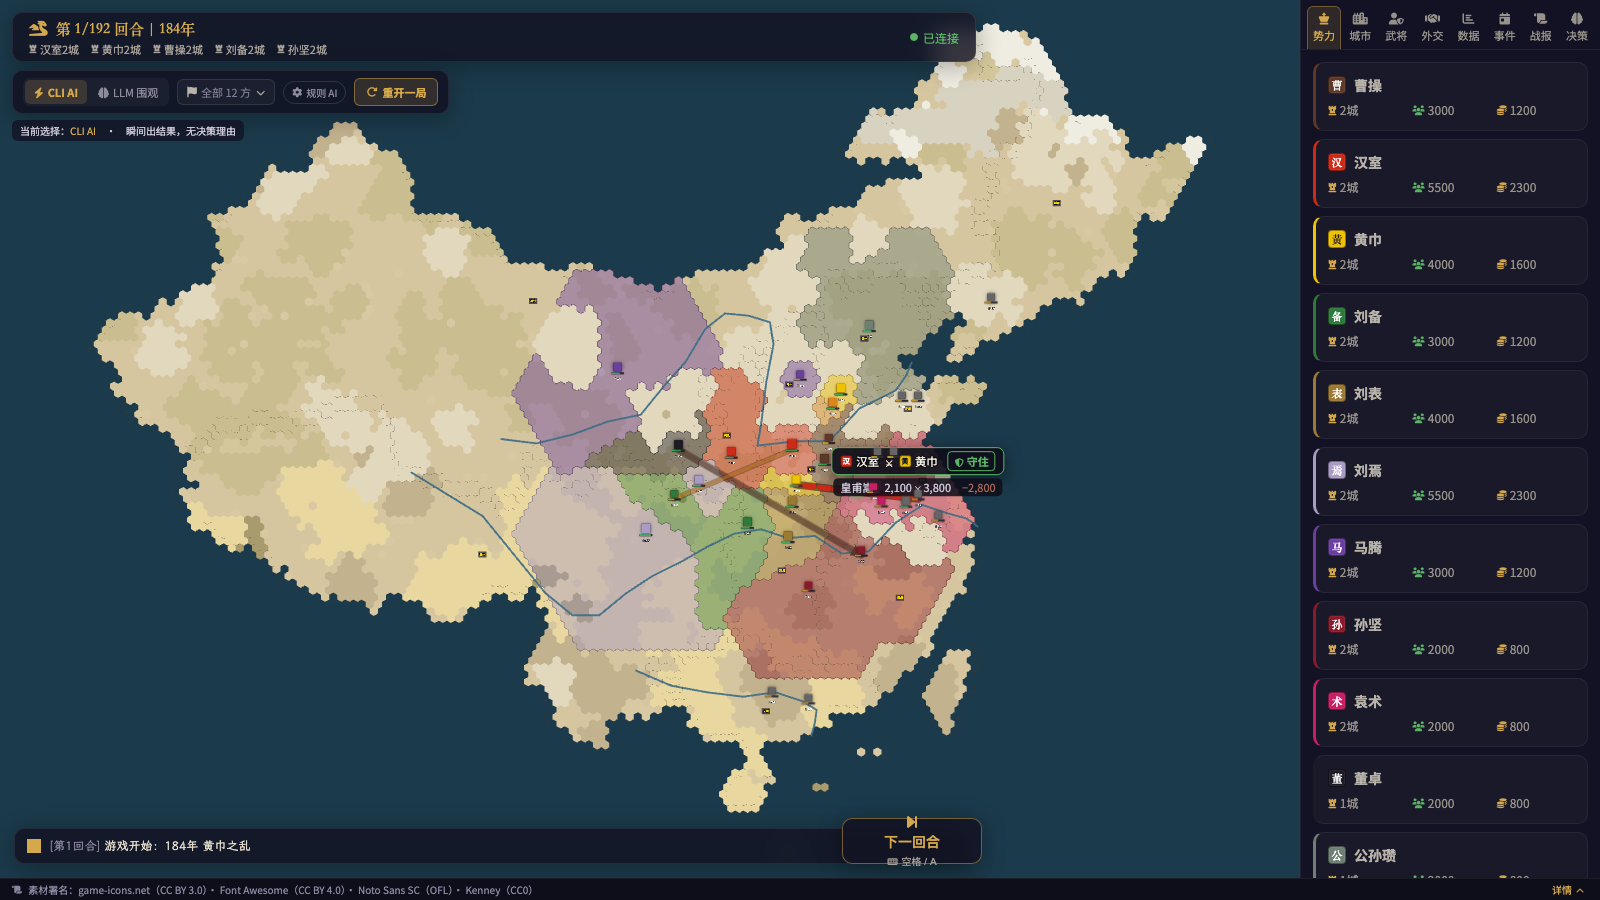
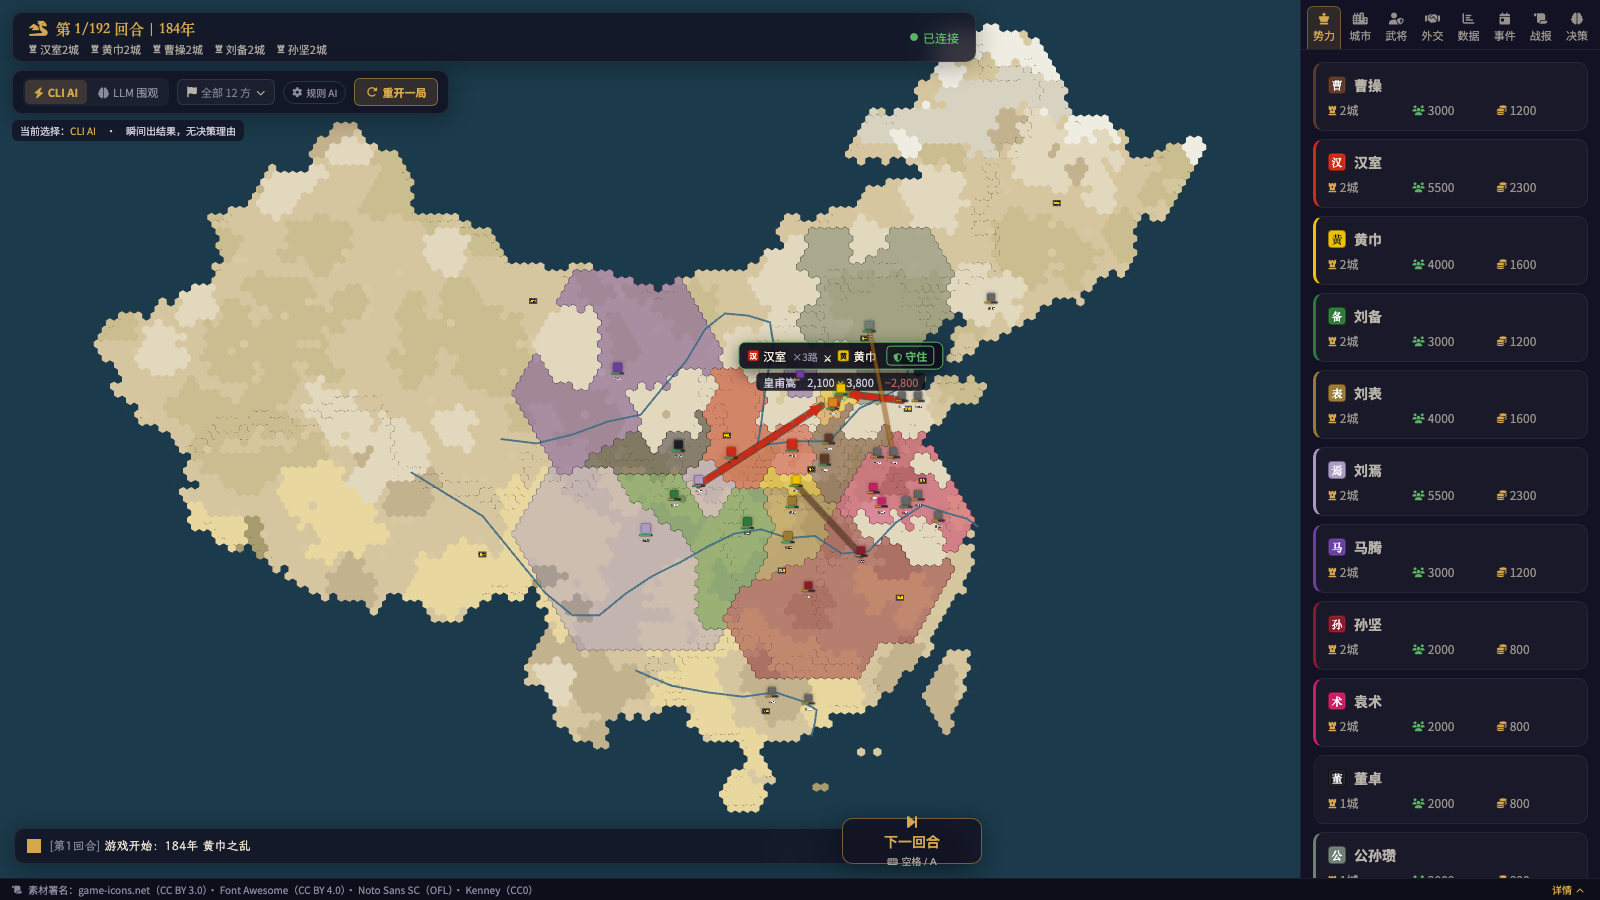
fix(web/ui): C2 出发城改正为复数 attacker_from_cities，每个出发城一条箭头
依据设计文档 §4.3.1 更正：一场战斗可有多支来自不同出发城的攻方部队被合并（battle_scheduler._group_by_target），实测 15% 的战斗如此。单数字段会让这些战斗箭头指向错误起点/漏画进攻线，直接违反 §4.2 验收标准。

改动：types.ts 的 BattleReport.attacker_from_cities: string[]；BattleOverlay 对每个出发城各画一条箭头（多线汇聚到目标城），回放标签多出发城时显示 ×N路。

验证：tsc --noEmit + vite build 通过；mock 注入 1/3/1 出发城三场战斗，截图见 docs/art/screenshots/phase-c2-battle/（02 帧可见 ×3路 与多条汇聚箭头）。

Changed region(s): [[0.4062, 0.3733, 0.625, 0.6222]]

diff --git a/web/src/components/map/BattleOverlay.tsx b/web/src/components/map/BattleOverlay.tsx
@@ -11,6 +11,10 @@ import { HEX_SIZE, axialToPixel } from '../../utils/hex'
  *   2. 打的什么结果    → 「占领／守住／溃退」徽标（三态各有配色与图标）
  *   3. 从哪来、打向哪  → 起点=攻方出发城 → 终点=目标城 的箭头
  *
+ * ⚠ 出发城是**复数**（设计文档 §4.3.1）：实测 **15% 的战斗**有多支来自不同城的攻方部队
+ *    被合并（`battle_scheduler._group_by_target`）。所以这里对**每个出发城各画一条箭头**，
+ *    多线汇聚到目标城——单起点会漏画其余进攻线、指向错误。
+ *
  * 技术选型：**DOM + SVG**，复用 GameMap 已有的世界坐标 overlay transform，
  * 不引入 PixiJS ticker 动画系统（改动小、几场战斗无性能压力）。
  * 所有尺寸都除以 `zoom`，保证屏幕观感不随地图缩放变化。
@@ -40,32 +44,32 @@ function cityPixel(cities: Record<string, City>, id: string | null) {
 }
 
 /** 势力名 + 单字（地图上认人靠「色 + 字」双线索，色盲也认得出） */
-function FactionTag({ faction, size = 12, zoom }: { faction: string; size?: number; zoom: number }) {
+function FactionTag({ faction, size = 12 }: { faction: string; size?: number }) {
   const color = FACTION_COLORS[faction] || '#888'
   const glyph = FACTION_GLYPH[faction]
   return (
-    <span style={{ display: 'inline-flex', alignItems: 'center', gap: 4 / zoom }}>
+    <span style={{ display: 'inline-flex', alignItems: 'center', gap: 4 }}>
       {glyph && (
         <span
           style={{
-            width: size / zoom,
-            height: size / zoom,
-            borderRadius: 3 / zoom,
+            width: size,
+            height: size,
+            borderRadius: 3,
             background: color,
             color: contrastText(color),
-            fontSize: (size * 0.62) / zoom,
+            fontSize: size * 0.62,
             fontWeight: 700,
             lineHeight: 1,
             display: 'inline-flex',
             alignItems: 'center',
             justifyContent: 'center',
-            border: `${1 / zoom}px solid rgba(0,0,0,0.4)`,
+            border: '1px solid rgba(0,0,0,0.4)',
           }}
         >
           {glyph}
         </span>
       )}
-      <span style={{ color: '#f0ece2', fontSize: (size * 0.95) / zoom, textShadow: '0 0 3px #000, 0 0 2px #000' }}>
+      <span style={{ color: '#f0ece2', fontSize: size * 0.95, textShadow: '0 0 3px #000, 0 0 2px #000' }}>
         {FACTIONS[faction] || faction}
       </span>
     </span>
@@ -79,87 +83,129 @@ export function BattleOverlay({ battles, cities, activeIndex, progress, zoom }: 
   return (
     <div style={{ position: 'absolute', left: 0, top: 0, width: '1px', height: '1px', pointerEvents: 'none' }}>
       {battles.map((b, i) => {
-        const a = cityPixel(cities, b.attacker_from_city)
-        const d = cityPixel(cities, b.defender_city)
         const active = i === activeIndex
         const meta = RESULT_META[b.result] || RESULT_META.draw
         const attColor = FACTION_COLORS[b.attacker_faction] || '#d4a84b'
+
+        // 出发城是复数：每个出发城各一条箭头汇聚到目标城
+        const fromIds = Array.isArray(b.attacker_from_cities) ? b.attacker_from_cities : []
+        const origins = fromIds.map((id) => cityPixel(cities, id)).filter((p): p is { x: number; y: number } => !!p)
+        const target = cityPixel(cities, b.defender_city)
 
         // 兵力比 → 箭头粗细（屏幕像素量级，再乘 inv 抵消地图缩放）
         const total = Math.max(1, b.attacker_soldiers + b.defender_soldiers)
         const attShare = b.attacker_soldiers / total
         const width = (4 + 5 * attShare) * inv
         const w = active ? width : width * 0.7
-        // 箭头一律用攻方势力色（残留箭也保留颜色，方便一眼看出「谁发起的」）
-        const strokeColor = attColor
 
-        // 目标点：有箭头就画攻方向；没出发城就退化为目标城上的爆点
-        const from = a && d ? a : d
-        const to = d || a
+        // 城防（城墙耐久）剩量比例 —— 回放标签里的城防条用
+        const wallRatio =
+          typeof b.wall_hp_before === 'number' && b.wall_hp_before > 0 && typeof b.wall_hp_after === 'number'
+            ? Math.max(0, Math.min(1, b.wall_hp_after / b.wall_hp_before))
+            : null
+        const wallColor =
+          wallRatio === null ? '#8a86a0' : wallRatio > 0.5 ? '#3cb464' : wallRatio > 0.2 ? '#c8a032' : '#c85046'
+
+        // 没有目标城就退化为在出发城上画爆点；有目标城但没出发城（如反击）→ 目标城爆点
+        const burstAt = target || origins[0]
+        const labelAt = target || origins[0]
 
         return (
           <div key={b.battle_id || i}>
-            {from && to && a && d && (
-              <svg
-                style={{ position: 'absolute', left: 0, top: 0, width: '1px', height: '1px', overflow: 'visible' }}
-              >
-                <defs>
-                  {/* ⚠ markerUnits 默认 = strokeWidth：marker 尺寸会**乘以线宽**。
-                      本组线宽是「屏幕像素 / 缩放」的世界量级，若用默认值箭头会被放大到几十像素
-                      （实测过：出现一个巨大三角）。这里把 marker 收到 2.2 倍线宽。 */}
-                  <marker
-                    id={`arrow-${i}`}
-                    markerWidth={2.2}
-                    markerHeight={2.2}
-                    refX={1.8}
-                    refY={1.1}
-                    orient="auto"
-                    markerUnits="strokeWidth"
-                  >
-                    <path d="M0,0 L2.2,1.1 L0,2.2 Z" fill={strokeColor} />
-                  </marker>
-                </defs>
-                {/* 深色描边：保证箭头在浅羊皮纸与深海上都读得出来 */}
-                <line
-                  x1={a.x} y1={a.y} x2={d.x} y2={d.y}
-                  stroke="#120c06"
-                  strokeWidth={w + 2 * inv}
-                  strokeOpacity={active ? 0.5 : 0.28}
-                  strokeLinecap="round"
+            <svg style={{ position: 'absolute', left: 0, top: 0, width: '1px', height: '1px', overflow: 'visible' }}>
+              <defs>
+                {/* ⚠ markerUnits 默认 = strokeWidth：marker 尺寸会**乘以线宽**。
+                    本组线宽是「屏幕像素 / 缩放」的世界量级，若用默认值箭头会被放大到几十像素
+                    （实测过：出现一个巨大三角）。这里把 marker 收到 2.2 倍线宽。 */}
+                <marker
+                  id={`arrow-${i}`}
+                  markerWidth={2.2}
+                  markerHeight={2.2}
+                  refX={1.8}
+                  refY={1.1}
+                  orient="auto"
+                  markerUnits="strokeWidth"
+                >
+                  <path d="M0,0 L2.2,1.1 L0,2.2 Z" fill={attColor} />
+                </marker>
+              </defs>
+
+              {/* 每个出发城 → 目标城 一条箭头（多线汇聚 = 「多路合攻」）。
+                  用**二次贝塞尔**：单路带轻微弧（不死板）；多路按出发城序号在中点两侧
+                  扇形错开曲率，避免几条线叠成一条看不清。 */}
+              {target &&
+                origins.map((o, k) => {
+                  const mx = (o.x + target.x) / 2
+                  const my = (o.y + target.y) / 2
+                  const dx = target.x - o.x
+                  const dy = target.y - o.y
+                  const len = Math.hypot(dx, dy) || 1
+                  const nx = -dy / len
+                  const ny = dx / len
+                  // 单路：固定侧偏（轻弧）；多路：以中点为中心扇形分布
+                  const spread = (origins.length > 1 ? (k - (origins.length - 1) / 2) * 78 : 22) * inv
+                  const cx = mx + nx * spread
+                  const cy = my + ny * spread
+
+                  let d = `M ${o.x} ${o.y} Q ${cx} ${cy} ${target.x} ${target.y}`
+                  // 回放时线要「从起点长到终点」：取 t=progress 处的**子曲线**。
+                  // 二次贝塞尔的子曲线仍是二次贝塞尔——De Casteljau 在 t=p 切分，左半段
+                  // 控制点 = (P0, lerp(P0,C,p), lerp(lerp(P0,C,p), lerp(C,P2,p), p))。
+                  // （直接截断终点画 Q 会得到一条形状不对的曲线。）
+                  if (active) {
+                    const ax = o.x + (cx - o.x) * progress
+                    const ay = o.y + (cy - o.y) * progress
+                    const bx = cx + (target.x - cx) * progress
+                    const by = cy + (target.y - cy) * progress
+                    const qx = ax + (bx - ax) * progress
+                    const qy = ay + (by - ay) * progress
+                    d = `M ${o.x} ${o.y} Q ${ax} ${ay} ${qx} ${qy}`
+                  }
+                  return (
+                    <g key={k}>
+                      {/* 深色描边：保证箭头在浅羊皮纸与深海上都读得出来 */}
+                      <path
+                        d={d}
+                        fill="none"
+                        stroke="#120c06"
+                        strokeWidth={w + 2 * inv}
+                        strokeOpacity={active ? 0.5 : 0.28}
+                        strokeLinecap="round"
+                      />
+                      <path
+                        d={d}
+                        fill="none"
+                        stroke={attColor}
+                        strokeWidth={w}
+                        strokeOpacity={active ? 0.98 : 0.45}
+                        strokeLinecap="round"
+                        strokeDasharray={active ? `${9 * inv} ${6 * inv}` : undefined}
+                        markerEnd={active ? (progress > 0.85 ? `url(#arrow-${i})` : undefined) : `url(#arrow-${i})`}
+                        style={active ? { strokeDashoffset: -(progress * 30 * inv) } : undefined}
+                      />
+                    </g>
+                  )
+                })}
+
+              {/* 交战爆点：回放推进到中段时闪一下 */}
+              {active && burstAt && progress > 0.35 && (
+                <circle
+                  cx={burstAt.x}
+                  cy={burstAt.y}
+                  r={(5 + 4 * Math.abs(Math.sin(progress * Math.PI * 3))) * inv}
+                  fill={meta.color}
+                  fillOpacity={0.35}
                 />
-                <line
-                  x1={a.x}
-                  y1={a.y}
-                  x2={d.x}
-                  y2={d.y}
-                  stroke={strokeColor}
-                  strokeWidth={w}
-                  strokeOpacity={active ? 0.98 : 0.45}
-                  strokeLinecap="round"
-                  strokeDasharray={active ? `${9 * inv} ${6 * inv}` : undefined}
-                  markerEnd={`url(#arrow-${i})`}
-                  style={active ? { strokeDashoffset: -(progress * 30 * inv) } : undefined}
-                />
-                {/* 交战中点的爆点：回放推进到中段时闪一下 */}
-                {active && progress > 0.35 && (
-                  <circle
-                    cx={(a.x + d.x) / 2}
-                    cy={(a.y + d.y) / 2}
-                    r={(5 + 4 * Math.abs(Math.sin(progress * Math.PI * 3))) * inv}
-                    fill={meta.color}
-                    fillOpacity={0.35}
-                  />
-                )}
-              </svg>
-            )}
+              )}
+            </svg>
 
             {/* 回放标签：只给正在回放的那一场显示，避免全图刷屏 */}
-            {active && to && (
+            {active && labelAt && (
               <div
                 style={{
                   position: 'absolute',
-                  left: to.x,
-                  top: to.y,
+                  left: labelAt.x,
+                  top: labelAt.y,
                   transform: `translate(-50%, -100%) scale(${inv})`,
                   transformOrigin: 'center bottom',
                   marginTop: -18,
@@ -183,9 +229,12 @@ export function BattleOverlay({ battles, cities, activeIndex, progress, zoom }: 
                     boxShadow: '0 4px 16px rgba(0,0,0,0.5)',
                   }}
                 >
-                  <FactionTag faction={b.attacker_faction} zoom={1} />
+                  <FactionTag faction={b.attacker_faction} />
+                  {origins.length > 1 && (
+                    <span style={{ color: '#8a86a0', fontSize: 10 }}>×{origins.length}路</span>
+                  )}
                   <span style={{ color: '#e8e0d0', fontSize: 13, fontWeight: 700 }}>⚔</span>
-                  <FactionTag faction={b.defender_faction} zoom={1} />
+                  <FactionTag faction={b.defender_faction} />
                   <span
                     style={{
                       marginLeft: 4,
@@ -218,6 +267,39 @@ export function BattleOverlay({ battles, cities, activeIndex, progress, zoom }: 
                     {(b.attacker_casualties + b.defender_casualties).toLocaleString()}
                   </span>
                 </div>
+                {/* 城防条：把「城墙被打掉多少」也画出来（守城战的关键读数） */}
+                {wallRatio !== null && (
+                  <div
+                    style={{
+                      display: 'flex',
+                      alignItems: 'center',
+                      gap: 5,
+                      fontSize: 10,
+                      color: '#c9c4d4',
+                      background: 'rgba(14,14,26,0.85)',
+                      borderRadius: 5,
+                      padding: '1px 7px',
+                      fontVariantNumeric: 'tabular-nums',
+                    }}
+                  >
+                    <i className="fa-solid fa-shield-halved" style={{ fontSize: 9, color: '#8a86a0' }}></i>
+                    <span>城防</span>
+                    <div
+                      style={{
+                        width: 56,
+                        height: 4,
+                        background: '#282836',
+                        borderRadius: 2,
+                        overflow: 'hidden',
+                      }}
+                    >
+                      <div style={{ width: `${wallRatio * 100}%`, height: '100%', background: wallColor }} />
+                    </div>
+                    <span>
+                      {b.wall_hp_before} → {b.wall_hp_after}
+                    </span>
+                  </div>
+                )}
               </div>
             )}
           </div>

diff --git a/web/src/types.ts b/web/src/types.ts
@@ -86,8 +86,14 @@ export interface GameEvent {
  * 契约来源：`docs/design/v4.1-gameplay-gaps.md` §4.3 的 `BattleReport` DTO。
  * 引擎已算出这些字段，后端只需打包后经 `recent_battles` 广播出来（见该文档 §4.1）。
  *
- * 🔴 `attacker_from_city` / `defender_city` 是「从哪来、打向哪」的关键——
+ * 🔴 `attacker_from_cities` / `defender_city` 是「从哪来、打向哪」的关键——
  *    没有它们只能显示结果，画不出进攻方向。
+ *
+ * 🔴 `attacker_from_cities` 是**复数**（设计文档 §4.3.1 更正）：
+ *    一场战斗可以有**多支来自不同出发城**的攻方部队被合并（`battle_scheduler._group_by_target`），
+ *    实测 **15% 的战斗**是多出发城。后端打包时用 `sorted(set(各军队 from_city))` 去重排序
+ *    （排序是为了不踩集合迭代序的确定性坑，见 ADR-0002）。前端对**每个出发城画一条箭头**。
+ *
  * 所有 `*_city` 是**城市 id**（前端再用 `state.cities[id].position` 转坐标）。
  */
 export interface BattleReport {
@@ -95,7 +101,8 @@ export interface BattleReport {
   turn: number
   attacker_faction: string
   defender_faction: string
-  attacker_from_city: string | null
+  /** 出发城 id 列表（复数！可能多于一，见上方说明） */
+  attacker_from_cities: string[]
   defender_city: string | null
   attacker_soldiers: number
   defender_soldiers: number

diff --git a/docs/art/2026-10-c2-battle-visualization.md b/docs/art/2026-10-c2-battle-visualization.md
@@ -20,13 +20,17 @@
 
 | 验收项 | 实现 |
 |---|---|
-| 从哪来、打向哪 | `BattleOverlay` 画**世界坐标箭头**：起点 `attacker_from_city` → 终点 `defender_city`；SVG line + 箭头 marker |
+| 从哪来、打向哪 | `BattleOverlay` 画**世界坐标箭头**：**每个出发城各一条** → 目标城（多线汇聚）；SVG line + 箭头 marker |
 | 谁在打谁 | 箭头**颜色 = 攻方势力色**；**粗细 = 兵力比**（攻方占比，屏幕 4–9px 量级）；残留箭保留颜色 |
 | 打的什么结果 | 三态徽标：`attacker_win`→**占领**（金）/ `defender_win`→**守住**（绿）/ `retreat`→**溃退**（褐）/ `draw`→相持（灰） |
 | 回放节奏 | 回合推进后对**最近 ≤3 场**逐场短回放（每场 **1.5s**），`battle_id` 保序；结束后留残留箭 + 700ms 淡出 |
-| 加分项 | 回放标签带**双方兵力与总伤亡**（`2,100 ⚔ 3,800 −2,800`）+ 主将名 |
+| 加分项 | 回放标签带**双方兵力与总伤亡**（`2,100 ⚔ 3,800 −2,800`）+ 主将名；多出发城时显示 **`×N路`** |
 | 色盲友好 | 标签里的势力标识用**单字徽标 + 名称**（不是纯色块）——复用阶段B 的 `FACTION_GLYPH` |
 | 地图认人 | `CityMarker` 加**势力单字小徽标**（放大到一定程度才显示，避免全图糊） |
+
+> ⚠ **出发城是复数**（`attacker_from_cities: string[]`）。一场战斗常有多支来自不同城的攻方部队被合并
+> （`battle_scheduler._group_by_target`，实测 **15%** 的战斗如此）。所以前端**对每个出发城各画一条箭头**——
+> 单起点会漏画其余进攻线、指向错误（这直接违反 §4.2 的验收标准）。依据见设计文档 §4.3.1 更正。
 
 ### 技术选型
 **DOM + SVG 叠加层**，复用 `GameMap` 已有的世界坐标 overlay `transform`。
@@ -50,7 +54,7 @@ interface BattleReport {
   turn: number
   attacker_faction: string
   defender_faction: string
-  attacker_from_city: string | null   // 城市 id —— 画箭头必须
+  attacker_from_cities: string[]      // 出发城 id **列表**（复数）—— 画箭头必须
   defender_city: string | null        // 城市 id
   attacker_soldiers: number
   defender_soldiers: number
